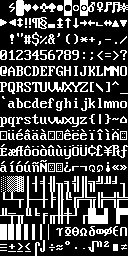
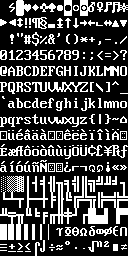
Modify xy2 font border chars to line up with x2y2

diff --git a/BorderBuilder.java b/BorderBuilder.java
@@ -216,7 +216,7 @@ public class BorderBuilder
       frame.setSize(1200, 1200);
       frame.setDefaultCloseOperation(JFrame.EXIT_ON_CLOSE);
       
-      TilePalette palette = new TilePalette("WidlerSuite/MyFont_16x16.png", 16, 16);
+      TilePalette palette = new TilePalette("WidlerSuite/WSFont_8x16.png", 16, 16);
       RogueTilePanel rtp = new RogueTilePanel(40, 40, palette);
       
       int[][] borderTemplateArr = {
